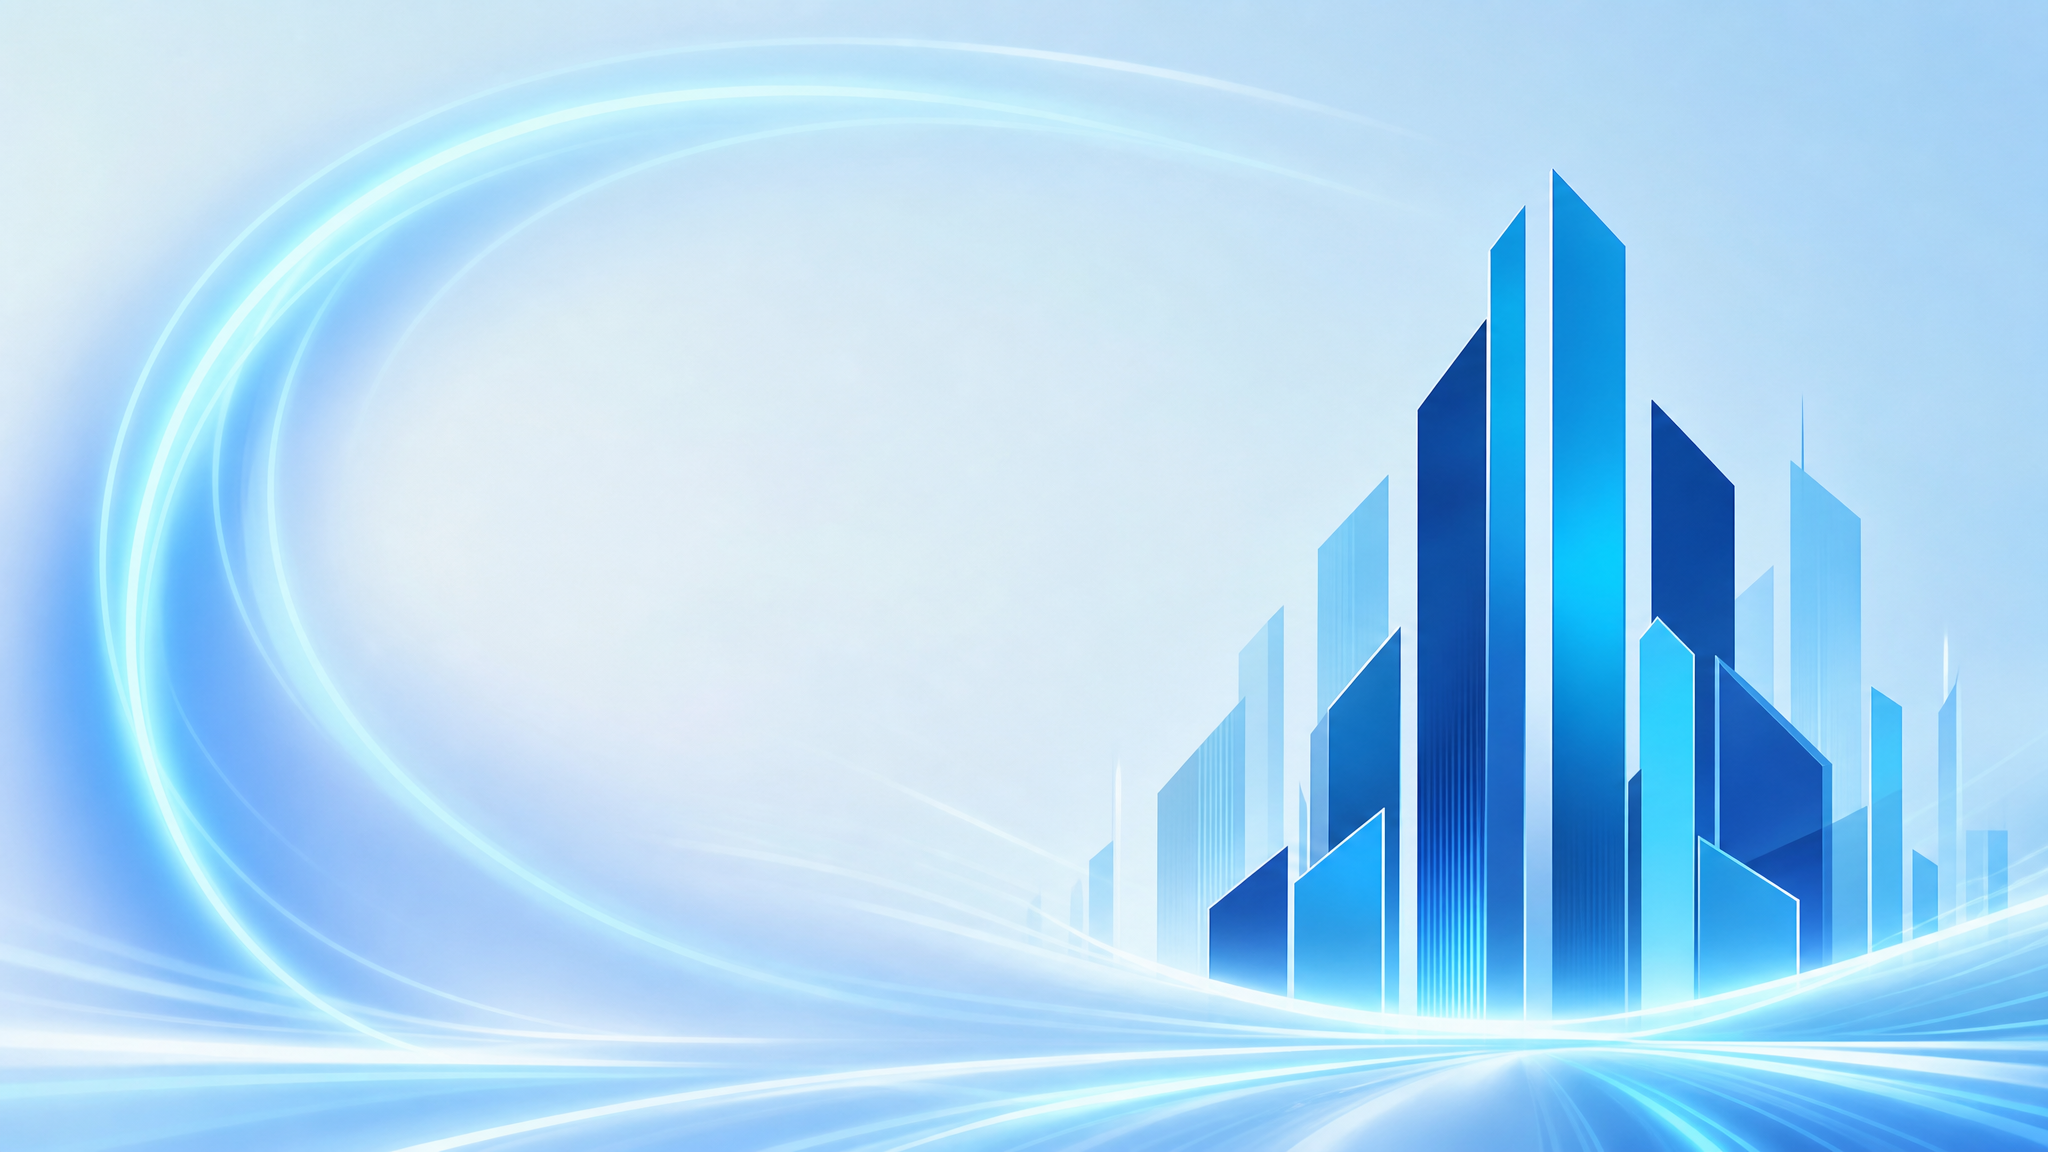
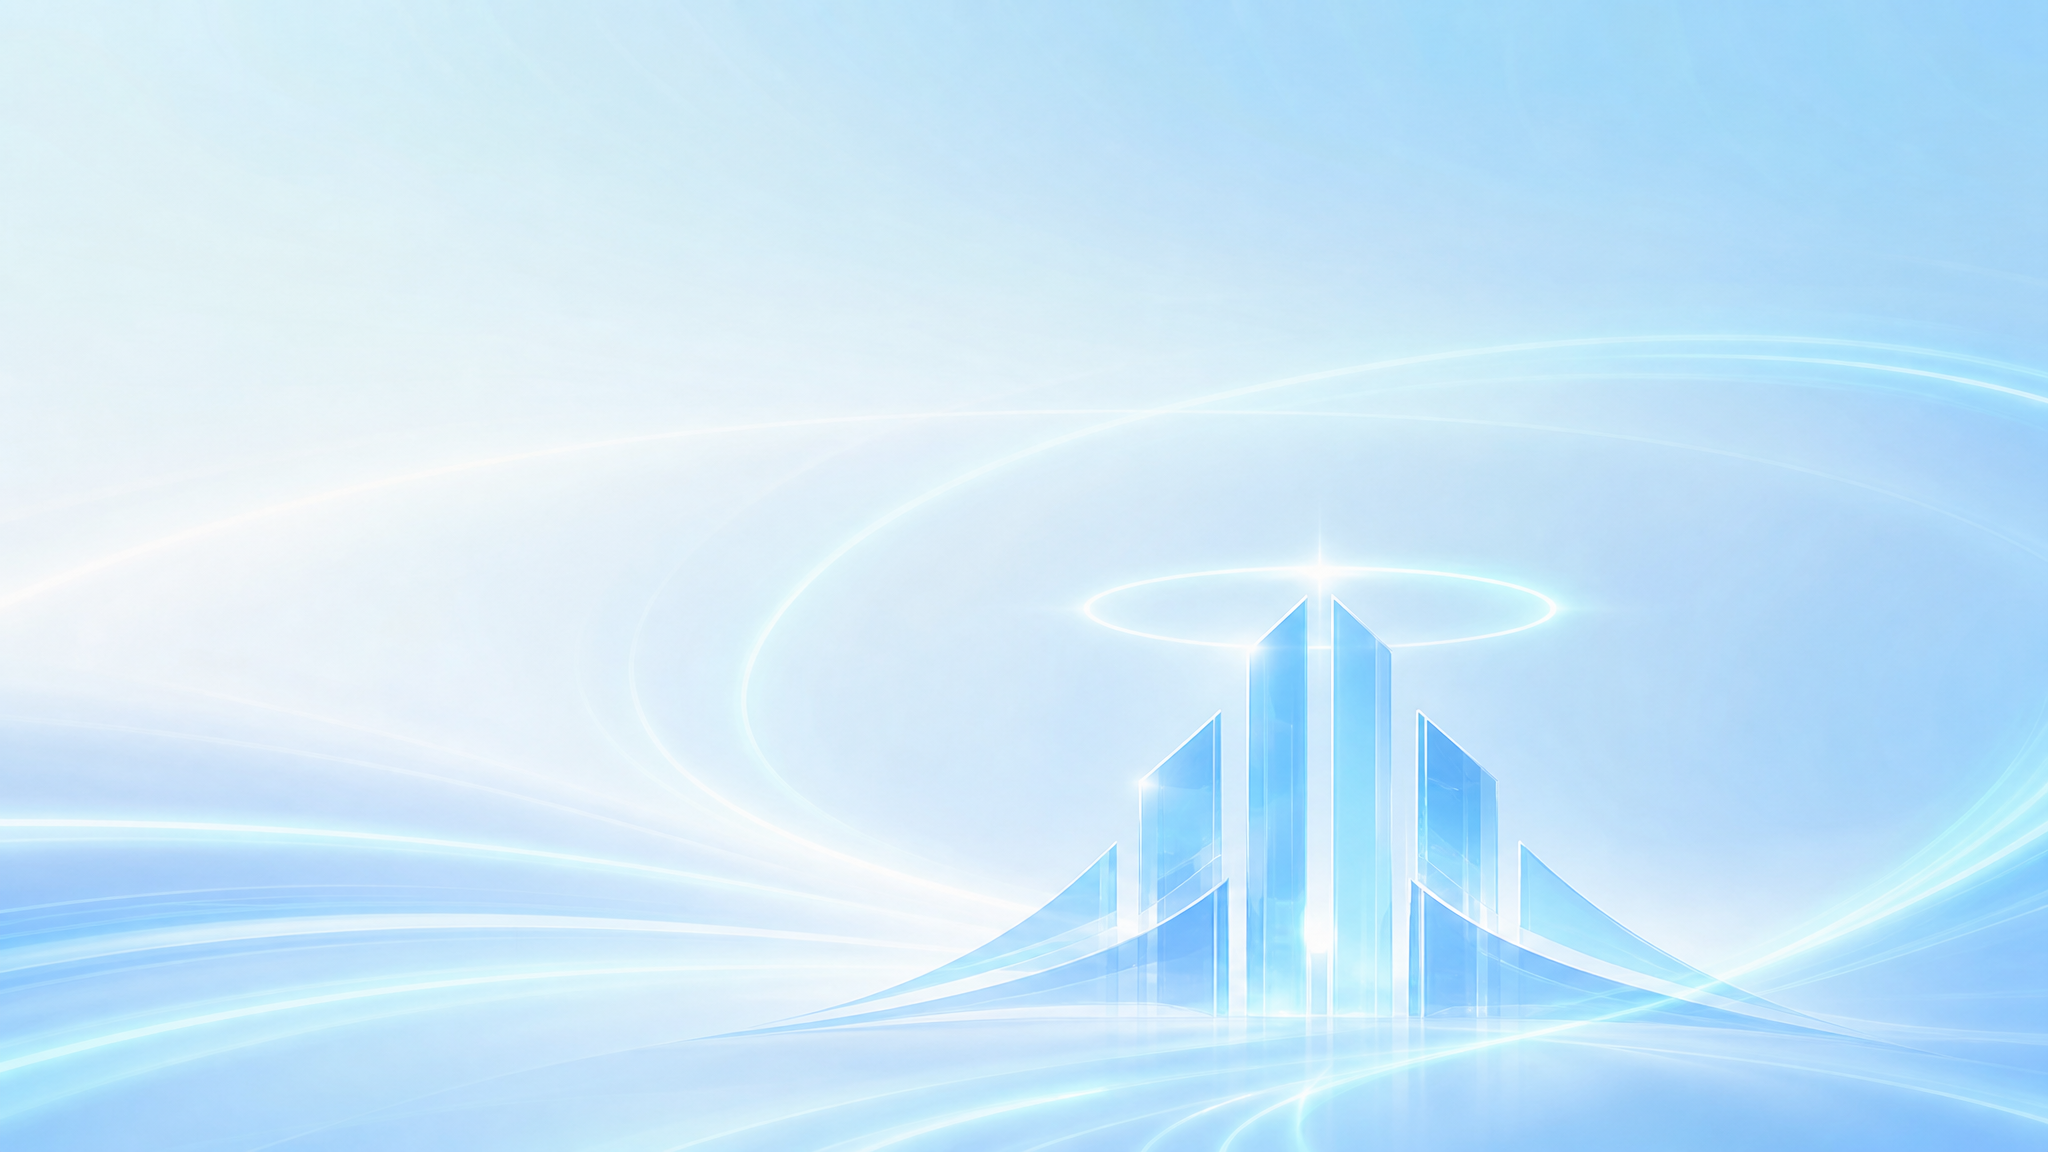
banner1: 恢复bgSize至110%，切换为桌面banner2.png

diff --git a/web/default/src/features/home/index.tsx b/web/default/src/features/home/index.tsx
@@ -16,7 +16,7 @@ import { SyntaxHighlight } from './components/syntax-highlight'
 
 /* ── Hero 轮播数据 ── */
 const slides = [
-  { title: '国产大模型的灯塔', title2: '一站汇聚，照亮 AI 之路', desc: 'OpenAI 兼容格式，统一 API 调用 DeepSeek、通义千问、GLM 等国产大模型，按量计费，快速集成', bg: '/banner-1.png', overlay: 'linear-gradient(180deg, rgba(230,240,250,0.55) 0%, rgba(220,235,248,0.65) 50%, rgba(255,255,255,0.9) 100%)', textColor: '#252736', badge: 'AI 之塔', isDark: false, bgPos: 'right center', bgSize: 'auto 100%' },
+  { title: '国产大模型的灯塔', title2: '一站汇聚，照亮 AI 之路', desc: 'OpenAI 兼容格式，统一 API 调用 DeepSeek、通义千问、GLM 等国产大模型，按量计费，快速集成', bg: '/banner-1.png', overlay: 'linear-gradient(180deg, rgba(230,240,250,0.55) 0%, rgba(220,235,248,0.65) 50%, rgba(255,255,255,0.9) 100%)', textColor: '#252736', badge: 'AI 之塔', isDark: false, bgPos: 'right center', bgSize: '110%' },
   { title: '覆盖 8 大国产厂商', title2: '16 款主流模型', desc: 'DeepSeek V4、Qwen3、GLM-5.1、Kimi-K2 等最新旗舰模型，一次接入全部调用', bg: '/banner-2.png', overlay: 'linear-gradient(180deg, rgba(230,240,250,0.55) 0%, rgba(220,235,248,0.65) 50%, rgba(255,255,255,0.9) 100%)', textColor: '#252736', badge: '模型生态', isDark: false, bgPos: 'center', bgSize: 'cover' },
   { title: '比官方更优的价格', title2: '按量计费无门槛', desc: '新人注册即享体验额度，支持高速推理通道，99.9% 服务可用性保障', bg: '/banner-3.png', overlay: 'linear-gradient(180deg, rgba(230,240,250,0.55) 0%, rgba(220,235,248,0.65) 50%, rgba(255,255,255,0.9) 100%)', textColor: '#252736', badge: '高性价比', isDark: false, bgPos: 'center', bgSize: 'cover' },
   { title: '三步接入零门槛', title2: '一行代码调用大模型', desc: '获取 API Key → 选择模型 → 复制代码，OpenAI SDK 直接兼容，5 分钟完成集成', bg: '/banner-4.png', overlay: 'linear-gradient(180deg, rgba(230,240,250,0.55) 0%, rgba(220,235,248,0.65) 50%, rgba(255,255,255,0.9) 100%)', textColor: '#252736', badge: '极速接入', isDark: false, bgPos: 'center', bgSize: 'cover' },